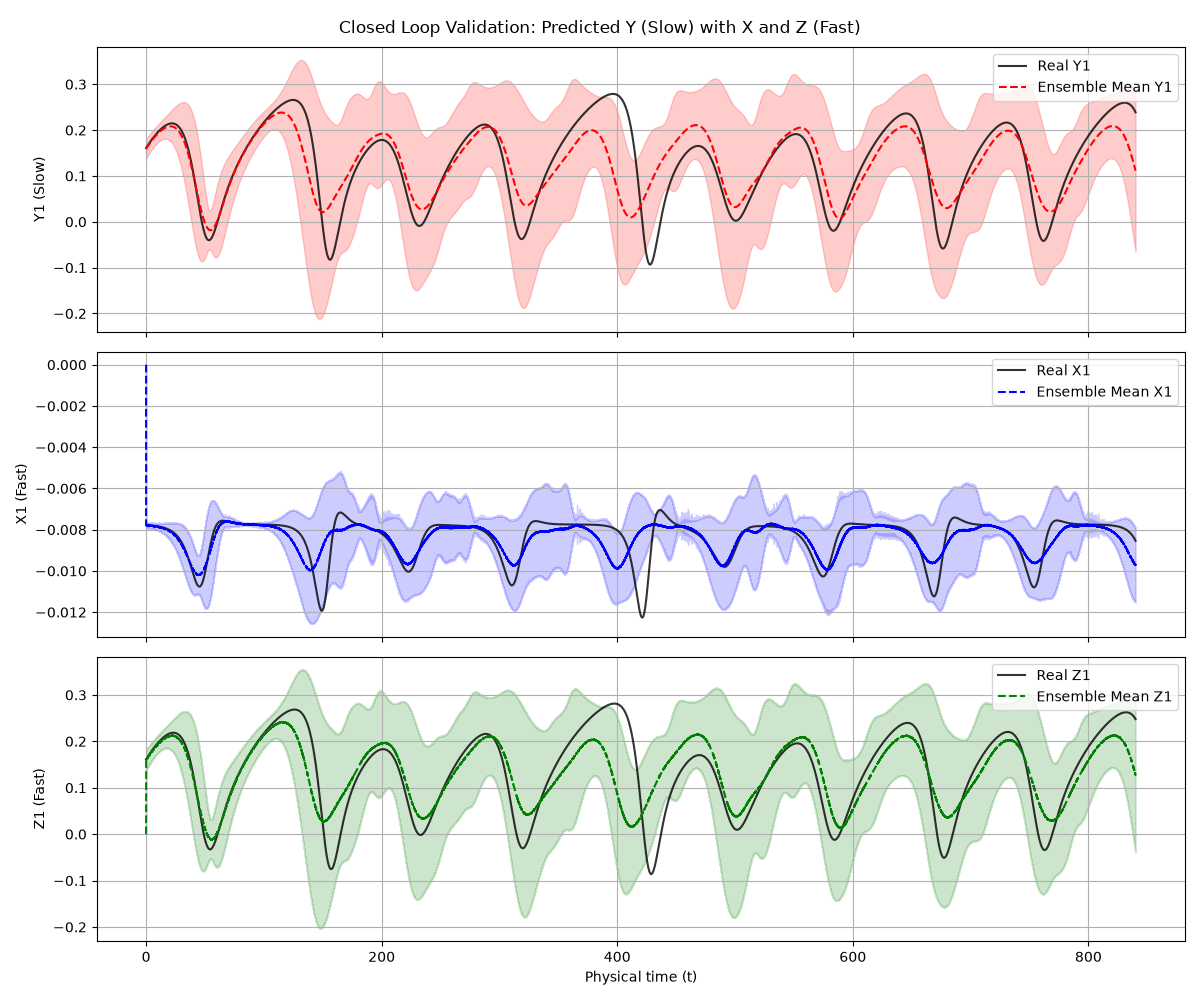
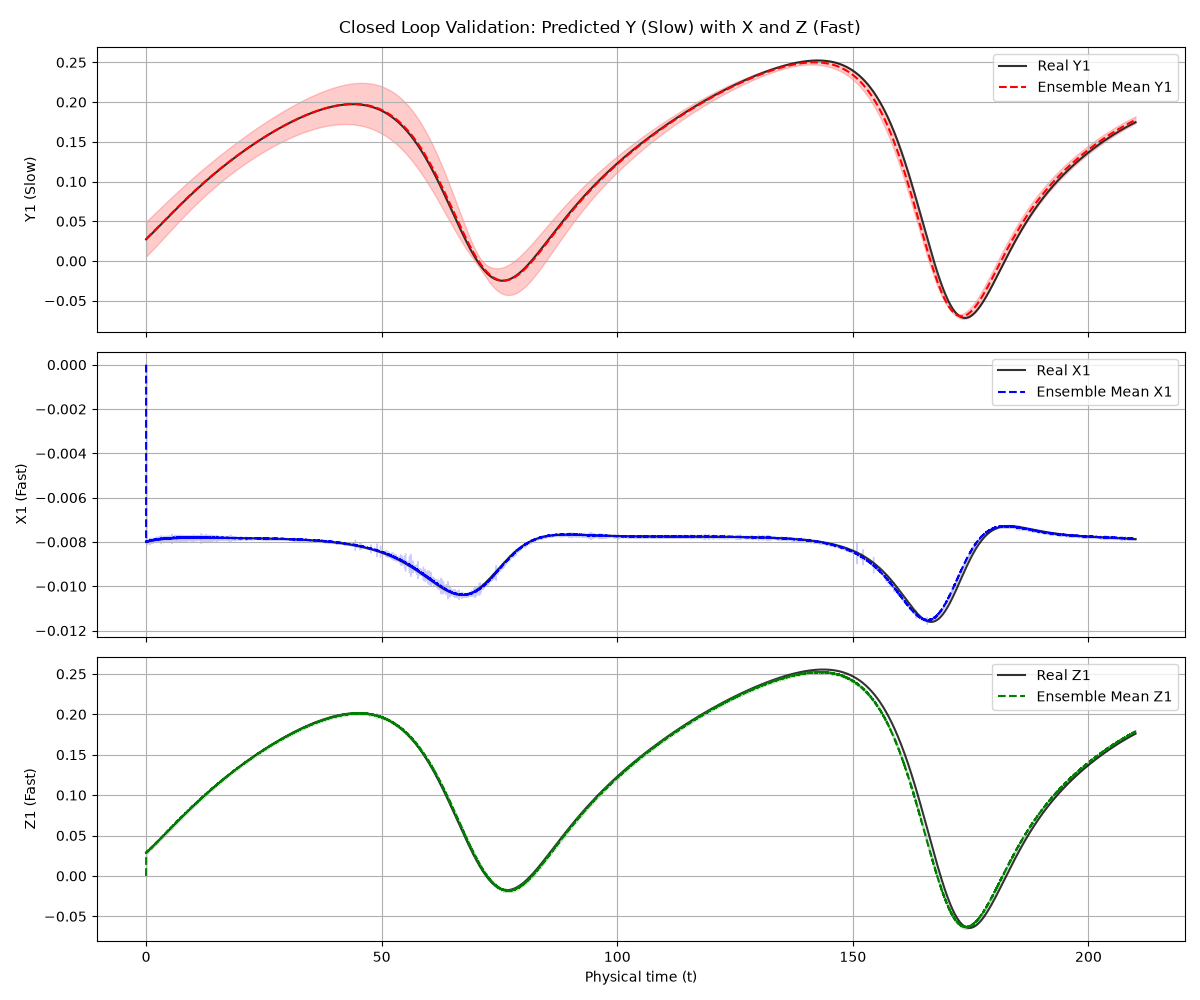
NHLR CFM WORKING

diff --git a/val/closed_loop_dynamics.py b/val/closed_loop_dynamics.py
@@ -5,10 +5,10 @@ from src.model import ConditionalVelocityField
 from src.flow_matching import ConditionalFlowMatcher
 from src.physics import rk4_step_y
 
-def run_level3_validation_xyz(n_ensemble=50, n_steps=50000, dt=4.2e-3, skip_transient=3000000):
-    torch.manual_seed(42)
+def run_level3_validation_xyz(n_ensemble=100, n_steps=100000, dt=4.2e-3, skip_transient=3000000):
+    torch.manual_seed(37)
     if torch.cuda.is_available():
-        torch.cuda.manual_seed_all(42)
+        torch.cuda.manual_seed_all(37)
         
     device = torch.device('cuda' if torch.cuda.is_available() else 'cpu')
 
@@ -52,7 +52,7 @@ def run_level3_validation_xyz(n_ensemble=50, n_steps=50000, dt=4.2e-3, skip_tran
             # 4. Ahora cfm.sample ve num_samples = 50. 
             # Generará 50 ruidos aleatorios torch.randn(50, 6) diferentes 
             # para la misma condición y_mean.
-            hat_x_norm, hat_z_norm = cfm.sample(y_norm, steps=5)
+            hat_x_norm, hat_z_norm = cfm.sample(y_norm, steps=3)
             
             # Des-normalizar (obtendrás 50 valores distintos de X y Z)
             hat_x = hat_x_norm * stats['x_std'].to(device) + stats['x_mean'].to(device)
